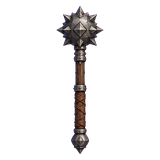
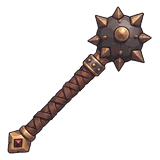
v0.62e: lepsze ikony zwykłej broni (stary miecz przywrócony), Szmaciana Maczuga
Claude-Session: https://claude.ai/code/session_01GEbC5QhUPXkMWE4U6CsBAf

Changed region(s): [[0.0312, 0.0312, 0.9688, 0.9688]]

diff --git a/index.html b/index.html
@@ -990,7 +990,7 @@ const actOf=m=>ACT[Math.min(m==null?(S.map||0):m,ACT.length-1)];
 const Dref=e=>12+ELX.dk*Math.pow(e,2.15),HPREF=l=>40+9.7*Math.pow(l,1.4),capPct=x=>x<=100?x:100+(x-100)*.5;
 const elAt=(x,y,m)=>{const a=actOf(m);return Math.max(1,Math.round(a.elLo+(a.elHi-a.elLo)*Math.min(1,Math.hypot(x,y)/ELX.zone)))};
 const goldFight=(el,n,m)=>(3+.8*el)*Math.pow(n,.8)*actOf(m).gold;
-const VER='0.62d';
+const VER='0.62e';
 const SK=[{n:'Cios',res:'sta',cost:15,cd:4,dm:3},{n:'Kula ognia',res:'mana',cost:20,cd:6,dm:5},{n:'Leczenie',res:'mana',cost:25,cd:10,heal:35}];
 const CL={uczony:[3,4,10,3,'Uczony','Dużo many i inteligencji, mocna magia, mało HP.'],silacz:[10,4,3,8,'Siłacz','Dużo HP i siły, mocne ciosy, mało many.'],atleta:[5,9,4,5,'Atleta','Dużo staminy i zręczności, uniki, średnie HP.'],łowca:[4,10,3,5,'Łowca','Strzały, trucizny i zwierzęcy towarzysze. Dużo staminy i zręczności.','atleta'],nekromanta:[2,3,10,5,'Nekromanta','Przywołuje sługi, rzuca klątwy i wysysa życie wrogów.','uczony'],paladyn:[8,3,4,9,'Paladyn','Pancerz, leczenie i wytrzymałość. Najtwardsza klasa.','silacz']};
 const LB={sil:'Sił',zre:'Zręcz',int:'Int',wit:'Wit',hp:'HP',def:'Pancerz',ls:'% kradzieży życia',crit:'% krytyka',dod:'% uniku',atkp:'% ataku',spp:'% mocy zaklęć',hpp:'% HP',manap:'% many',stap:'% staminy',cdr:'% szybsze odnowienie'},RN=['Zwykły','Magiczny','Rzadki','Legendarny'],RC=['#cfcfcf','#6aa8ff','#f0d04a','#ff9a3c'];
@@ -1152,7 +1152,7 @@ function genItem(fr,bo,op){
   const dist=Math.hypot(S.x,S.y)+(S.map||0)*30,L=S.p.lvl,ty=(op&&op.ty)||['helm','klata','spodnie','buty','rekawice','naramienniki','amulet','pierscien','bron','bron'][Math.floor(Math.random()*10)];
   const q=Math.random()+dist/400+(bo||0),r=fr>0?fr:q>.98?3:q>.88?2:q>.6?1:0,tier=(op&&op.tier!=null)?op.tier:Math.min(8,Math.floor((dist+L*1.2)/14+Math.random()*2.2)),s={};
   let n,noun,ac=null,two=false,col=MC[tier];
-  if(ty==='bron'){const w=pickW(op);noun=w[0];two=!!w[1];n=MAT[tier]+' '+noun;s.atkp=two?Math.round((tier*4+4)*2.2):tier*4+4;if(noun==='Kostur')s.spp=tier*4+4;else if(noun==='Sztylet')s.crit=2+Math.floor(tier/2)}
+  if(ty==='bron'){const w=pickW(op);noun=w[0];two=!!w[1];n=(noun==='Maczuga'?MAT[tier].replace(/y$/,'a'):MAT[tier])+' '+noun;s.atkp=two?Math.round((tier*4+4)*2.2):tier*4+4;if(noun==='Kostur')s.spp=tier*4+4;else if(noun==='Sztylet')s.crit=2+Math.floor(tier/2)}
   else{const jw=ty==='amulet'||ty==='pierscien';ac=jw?null:pickAc(op);const[nn,g]=jw?NOUN[ty]:NOUNA[ac][ty],a=(jw?JEW:MATA[ac])[tier];noun=nn;n=g==='p'?a.slice(0,-1)+'e '+nn:g==='f'?a.slice(0,-1)+'a '+nn:a+' '+nn;
     if(jw){if(ty==='amulet')s.hpp=tier*2+2;else s.crit=1+Math.floor(tier/2)}else if(ac==='plyta')s.def=2+tier*3;else if(ac==='skora'){s.def=1+tier*2;s.zre=1+Math.floor(tier*.9);s.dod=1+Math.floor(tier/2)}else{s.def=Math.max(1,tier);s.int=1+Math.floor(tier*1.1);s.manap=2+tier*2}}
   const pool=REGSET[GCTX||ctxReg()]||[],sid=(op&&op.set)||(r>=2&&pool.length&&Math.random()<(r===3?.6:.35)?pool[Math.floor(Math.random()*pool.length)]:null);
